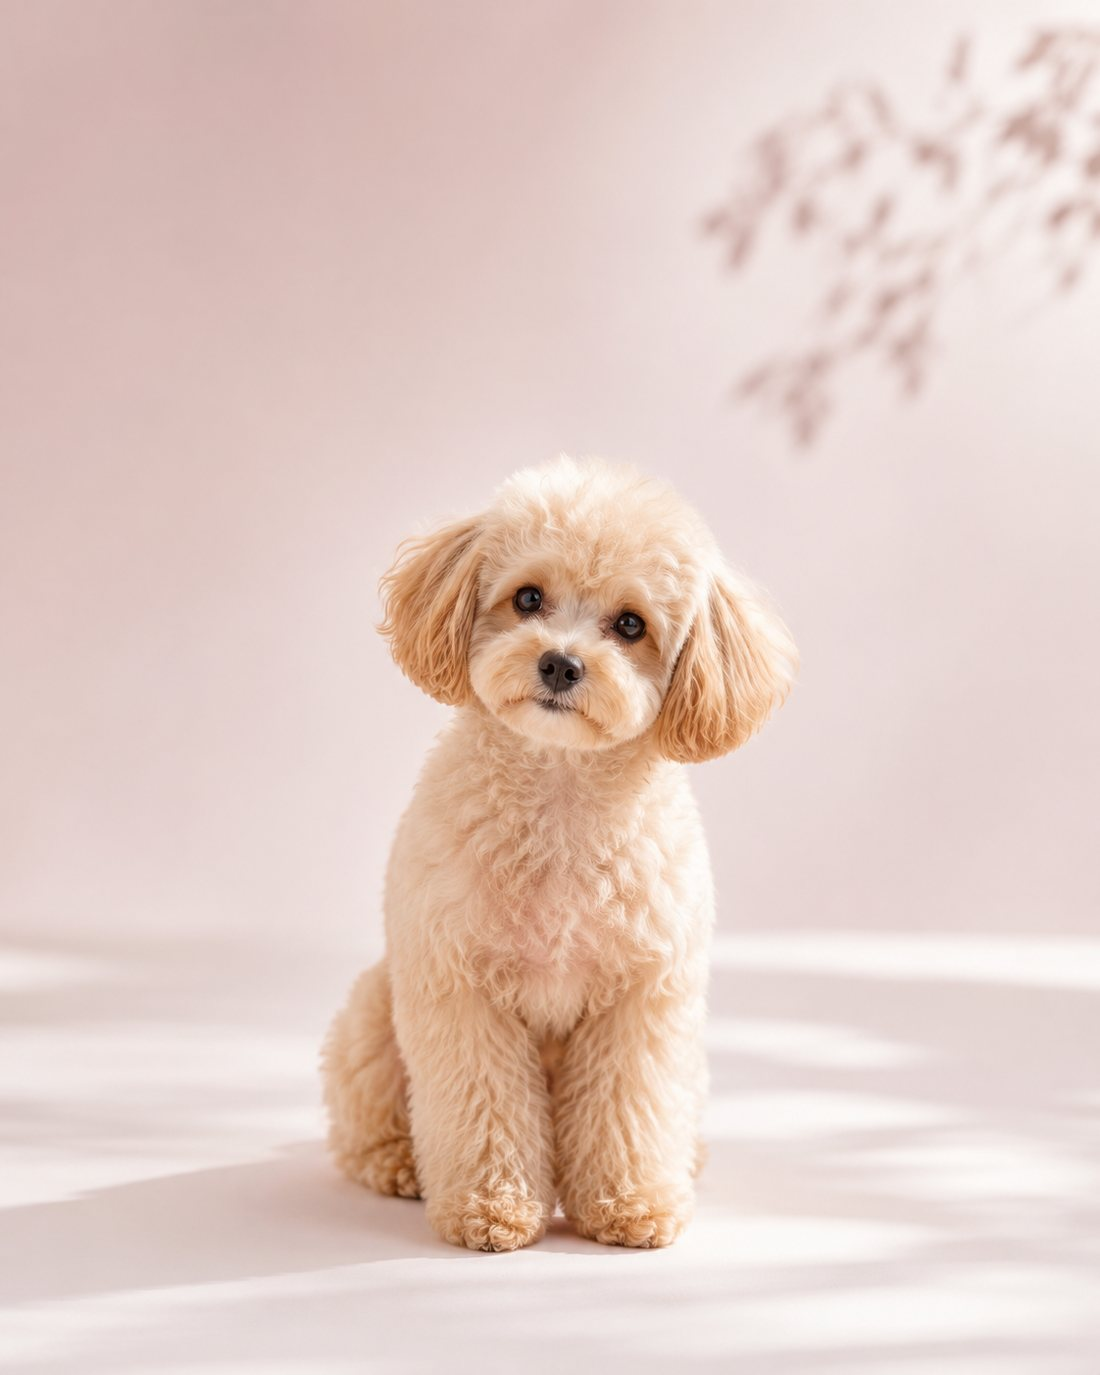
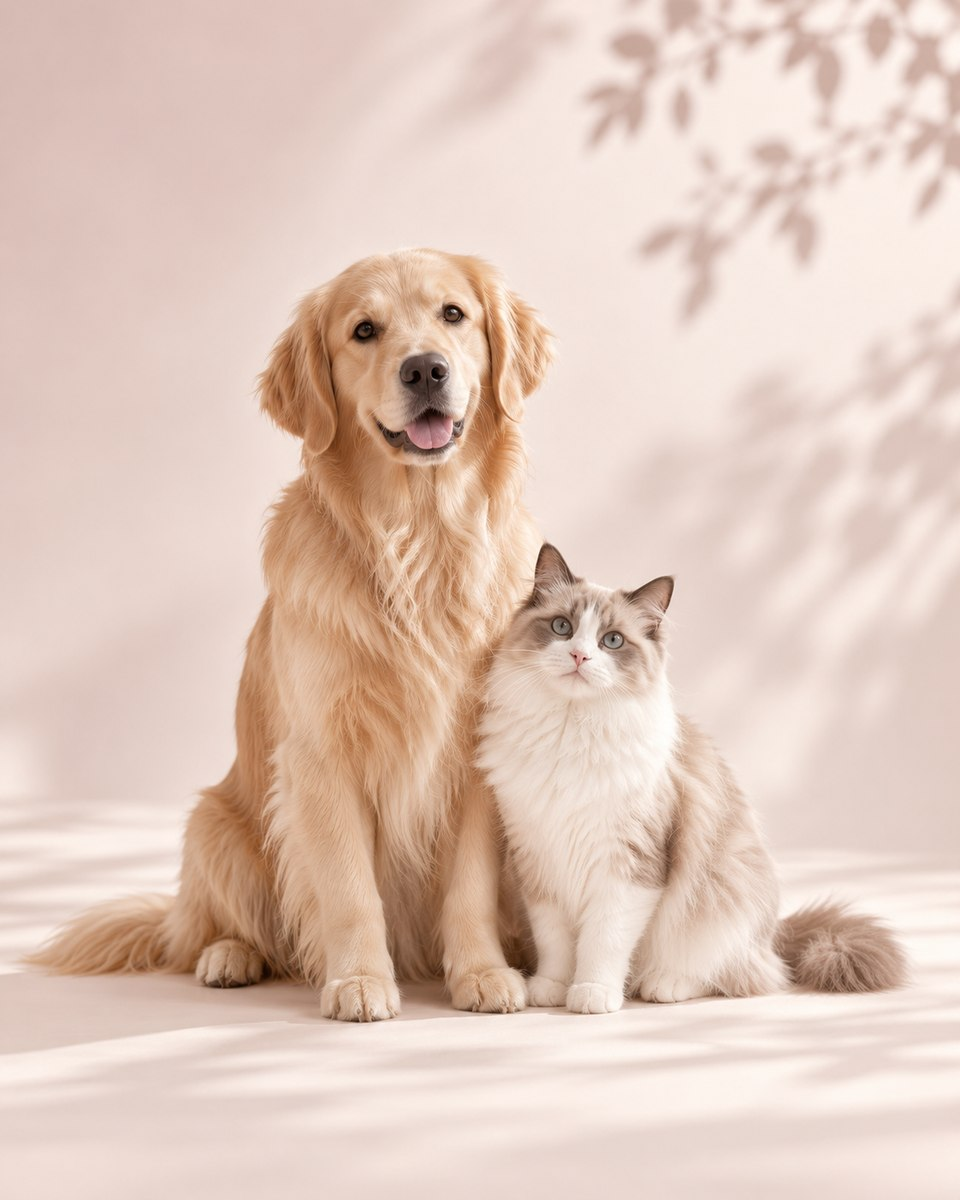
brands: add pet grooming mist as coming soon; new animal care photo

diff --git a/index.html b/index.html
@@ -8,7 +8,7 @@
 <link rel="preconnect" href="https://fonts.googleapis.com">
 <link rel="preconnect" href="https://fonts.gstatic.com" crossorigin>
 <link href="https://fonts.googleapis.com/css2?family=Fraunces:opsz,wght@9..144,300;9..144,400;9..144,500;9..144,600&family=Inter:wght@400;500;600&family=Noto+Serif+JP:wght@300;400;500;600&family=Zen+Kaku+Gothic+New:wght@400;500;700&display=swap" rel="stylesheet">
-<link rel="stylesheet" href="assets/site.css?v=20260828gold">
+<link rel="stylesheet" href="assets/site.css?v=20260915pet">
 <style>
 /* ===== O2N header ===== */
 .o2h{position:fixed;top:0;left:0;right:0;z-index:100;display:flex;align-items:center;justify-content:space-between;
@@ -235,12 +235,20 @@
 
 
 <style>
-.brand-cards{display:grid;grid-template-columns:1fr;max-width:520px;margin-left:auto;margin-right:auto;gap:clamp(20px,3vw,34px);margin-top:clamp(36px,5vw,56px)}
-@media(max-width:820px){.brand-cards{grid-template-columns:1fr}}
+.brand-cards{display:grid;grid-template-columns:1fr 1fr;max-width:1000px;margin-left:auto;margin-right:auto;gap:clamp(20px,3vw,34px);margin-top:clamp(36px,5vw,56px)}
+@media(max-width:820px){.brand-cards{grid-template-columns:1fr;max-width:520px}}
 .bcard{display:block;text-decoration:none;color:inherit;background:var(--white);
   border:1px solid var(--line);border-radius:4px;padding:clamp(34px,4vw,54px) clamp(24px,3vw,40px);
   text-align:center;transition:border-color .3s, transform .3s}
 .bcard:hover{border-color:var(--rose);transform:translateY(-3px)}
+.bcard.soon{cursor:default;position:relative}
+.bcard.soon:hover{border-color:var(--line);transform:none}
+.bcard .shot{width:100%;max-width:300px;margin:0 auto;aspect-ratio:1/1.12;overflow:hidden;
+  border:1px solid var(--line);border-radius:3px;background:var(--cream)}
+.bcard .shot img{width:100%;height:100%;object-fit:cover;display:block}
+.soon-tag{display:inline-block;margin-top:22px;font-size:10.5px;letter-spacing:.24em;
+  color:var(--rose);border:1px solid var(--rose);border-radius:999px;padding:5px 16px}
+.bcard .soon-note{margin-top:14px;font-size:11.5px;color:var(--muted);letter-spacing:.04em}
 .bmark{width:clamp(190px,22vw,250px);height:clamp(190px,22vw,250px);margin:0 auto;border-radius:50%;
   background:#F7CED2;display:flex;flex-direction:column;align-items:center;justify-content:center;gap:6px}
 .bmark .n1{font-family:var(--jp-serif,'Noto Serif JP',serif);font-size:clamp(24px,2.6vw,31px);
@@ -287,7 +295,7 @@
       
 
       <a class="bcard" href="products/evev.html">
-        <div class="ev-logo" style="width:100%;max-width:360px;margin:0 auto">
+        <div class="ev-logo" style="width:100%;max-width:300px;margin:0 auto;aspect-ratio:1/1.12;justify-content:center">
           <div class="m" style="font-size:clamp(46px,5.6vw,68px)">evev</div>
           <div class="s" style="font-size:clamp(14px,1.6vw,19px)">Every &amp; Evolution</div>
         </div>
@@ -296,10 +304,19 @@
         <p>店販、EC、サロン直販など、さまざまな販売チャネルでお求めいただけるブランドです。サロン用の1,000mLもご用意しています。</p>
         <span class="more">製品を見る　&rarr;</span>
       </a>
+
+      <div class="bcard soon">
+        <div class="shot"><img src="assets/evev-pet.jpg" alt="evev Pet Grooming Mist"></div>
+        <div class="cap">Animal Care</div>
+        <h3>ペットグルーミングミスト</h3>
+        <p>犬・猫のためのグルーミングミスト。ブラッシング前後の毛づやと手ざわりを整えます。250mL スプレータイプ。</p>
+        <span class="soon-tag">COMING SOON</span>
+        <div class="soon-note">発売時期が決まり次第、こちらでご案内します。</div>
+      </div>
     </div>
 
     <div class="dev-note reveal">
-      タムジ株式会社は、ヘアケアブランド evev の企画・販売を担います。処方の開発と製造管理は開発責任者および製造パートナーが担当し、製造販売元はメディカ・ウェーブ株式会社です。
+      タムジ株式会社は、ヘアケアブランド evev の企画・販売を担います。処方の開発と製造管理は開発責任者および製造パートナーが担当し、製造販売元はクー・サイエンスビューティー株式会社です。
     </div>
   </div>
 </section>
@@ -359,7 +376,7 @@
       <div class="biz-row reveal"><div class="biz-visual"><div class="pic"><img src="assets/biz-pharma.jpg" alt="ファーマシューティカル事業"></div></div><div class="biz-text"><div class="no">02</div><h3>ファーマシューティカル事業</h3><span class="en">Pharmaceutical</span><p>医薬品および医薬部外品の製造販売。許認可と品質管理を前提に、効能と安全性を満たす製品づくりに取り組みます。</p></div></div>
       <div class="biz-row reveal"><div class="biz-visual"><div class="pic"><img src="assets/biz-device.jpg" alt="メディカルデバイス事業"></div></div><div class="biz-text"><div class="no">03</div><h3>メディカルデバイス事業</h3><span class="en">Medical Devices</span><p>医療機器類の仕入・販売。医療・美容の現場で必要とされる機器を、信頼できる供給網を通じて届けます。</p></div></div>
       <div class="biz-row reveal"><div class="biz-visual"><div class="pic"><img src="assets/biz-salon.jpg" alt="ビューティーサロン事業"></div></div><div class="biz-text"><div class="no">04</div><h3>ビューティーサロン事業</h3><span class="en">Salon Management</span><p>美容室・理容室の経営管理。プロダクトとサービスをつなぎ、現場から得た知見を製品開発へ還元します。</p></div></div>
-      <div class="biz-row reveal"><div class="biz-visual"><div class="pic"><img src="assets/biz-animal.jpg" alt="アニマルケア事業"></div></div><div class="biz-text"><div class="no">05</div><h3>アニマルケア事業</h3><span class="en">Animal Care</span><p>動物用医薬部外品の製造販売。人だけでなく、ともに暮らす動物の健やかさにも貢献する製品を手がけます。</p></div></div>
+      <div class="biz-row reveal"><div class="biz-visual"><div class="pic"><img src="assets/biz-animal.jpg" alt="アニマルケア事業"></div></div><div class="biz-text"><div class="no">05</div><h3>アニマルケア事業</h3><span class="en">Animal Care</span><p>犬・猫のためのグルーミング製品と動物用医薬部外品の製造販売。ともに暮らす動物の健やかさにも貢献する製品を手がけます。</p></div></div>
       <div class="biz-row reveal"><div class="biz-visual"><div class="pic"><img src="assets/biz-retail.jpg" alt="リテール・トレーディング事業"></div></div><div class="biz-text"><div class="no">06</div><h3>リテール・トレーディング事業</h3><span class="en">Retail &amp; Trading</span><p>関連事業に係る店舗の経営、ならびに製品の輸出入。国内外の流通を通じて事業基盤を広げます。</p></div></div>
     </div>
   </div>
